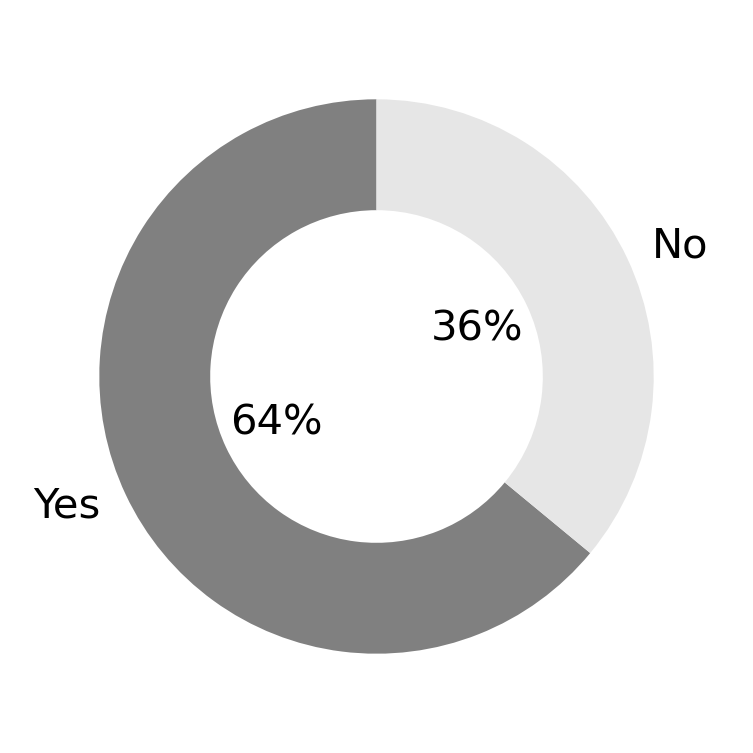
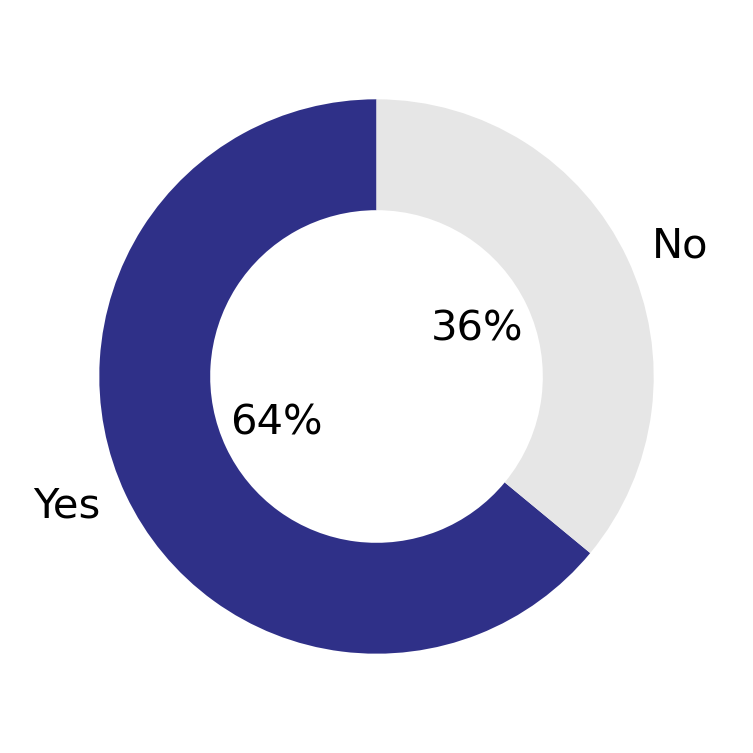
Add color

Changed region(s): [[0.1222, 0.1222, 0.7942, 0.8858]]

diff --git a/report/manuscript.tex b/report/manuscript.tex
@@ -105,7 +105,7 @@ The geographic distribution of crowding across Europe reveals substantial variat
 
 \begin{figure}[h]
     \centering
-        \includegraphics[width=0.7\textwidth]{../output/plots/crowding_map}
+        \includegraphics[width=1.0\textwidth]{../output/plots/crowding_map}
         \caption{Map of the proportion of crowded days during a normal operating month as estimated by the respondents and aggregated to country level.}
         \label{fig:crowding_map}
 \end{figure}
@@ -159,12 +159,12 @@ Output factors received the highest importance ratings overall. Organisational c
 
 Figure \ref{fig:interventions} presents the interventions that emergency departments report using when crowding occurs. The most commonly reported intervention was opening additional inpatient beds among wards, used by 34\% of respondents. Adjusting decision making in triage was reported by 19\% of respondents, while communicating the crowding status to the catchment area population to limit input was used by 18\% of respondents. Calling in additional staff to the emergency department was reported by 16\% of respondents, and 14\% reported using other interventions. These findings indicate that output-focused interventions, particularly increasing bed availability, are the most commonly employed response to crowding.
 
-\begin{figure}[h]
-    \centering
-        \includegraphics[width=1.0\textwidth]{../output/plots/interventions}
-        \caption{Interventions used when crowding occurs, based on EU-level statistics.}
-        \label{fig:interventions}
-\end{figure}
+% \begin{figure}[h]
+%     \centering
+%         \includegraphics[width=1.0\textwidth]{../output/plots/interventions}
+%         \caption{Interventions used when crowding occurs, based on EU-level statistics.}
+%         \label{fig:interventions}
+% \end{figure}
 
 Regarding the potential role of demand forecasting and early warning systems, respondents demonstrated substantial interest in these technologies. As shown in Figure \ref{fig:benefit}, 64\% of respondents believed that sufficiently accurate patient volume forecasting or crowding early warning software would help alleviate the crowding problem, while 36\% did not believe it would help. However, Figure \ref{fig:usage} reveals a striking gap between perceived potential and current implementation: only 6\% of respondents reported currently using patient volume forecasting or crowding early warning software to guide decision making, while 94\% reported not using such systems. This disparity suggests that while there is substantial interest in demand management approaches, their practical implementation remains limited across European emergency departments.
 
